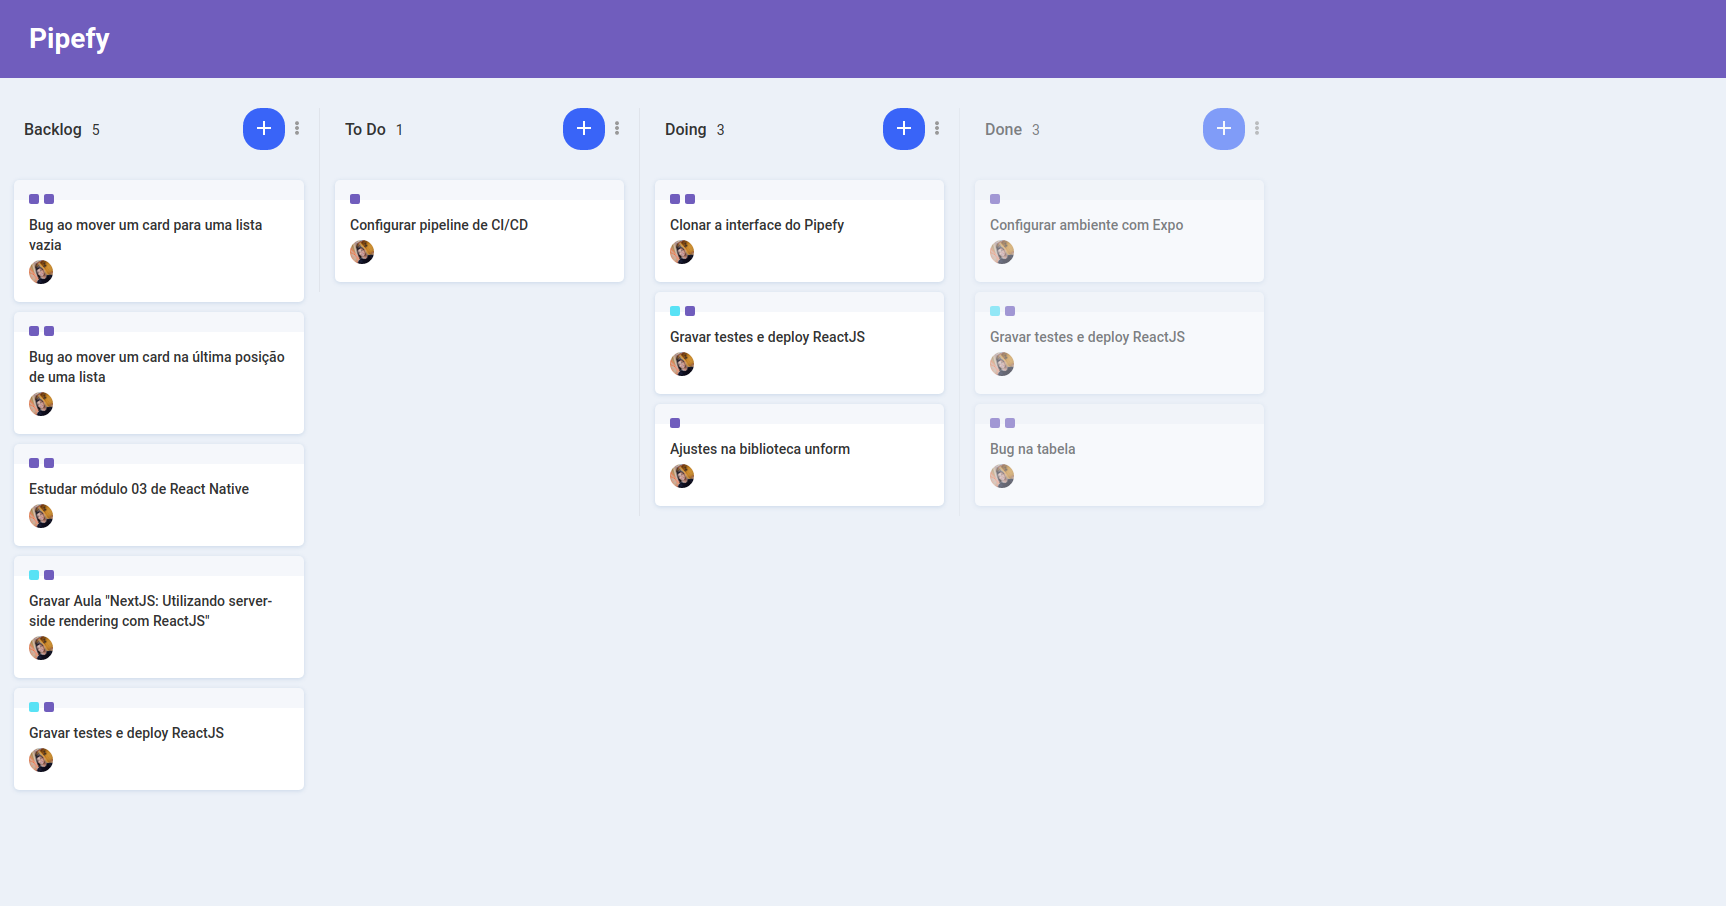
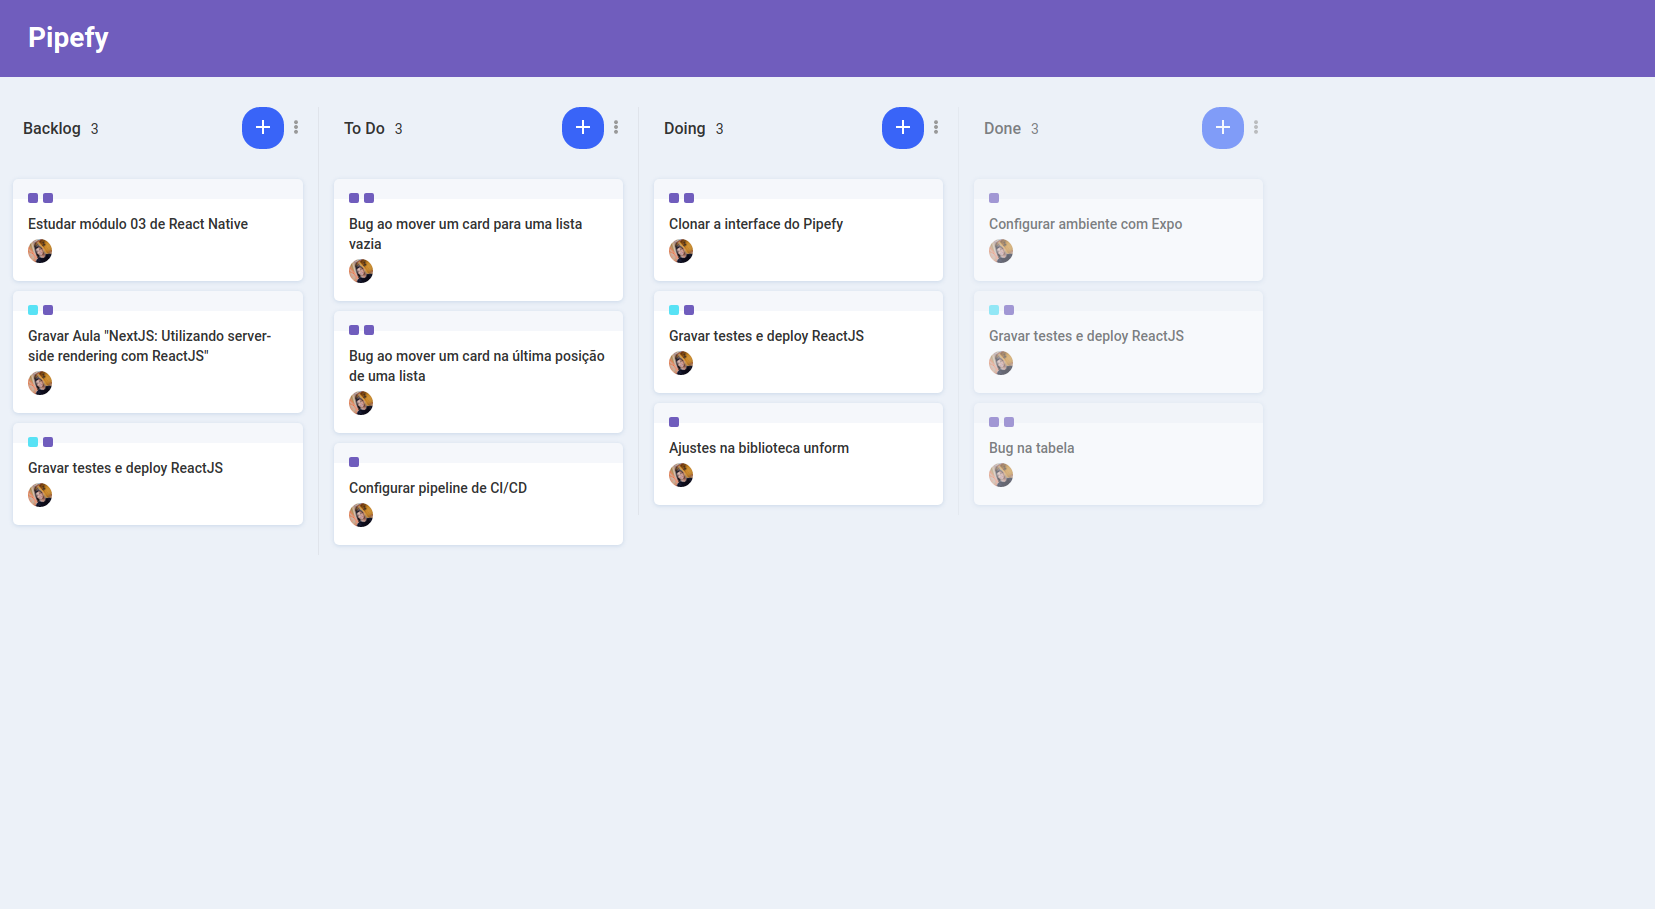
Update README.md

diff --git a/src/data.ts b/src/data.ts
@@ -7,31 +7,19 @@ export function loadLists() {
       cards: [
         {
           id: 1,
-          description: 'Bug ao mover um card para uma lista vazia',
-          labels: ['#7159c1'],
-          userAvatar: 'https://github.com/gabrielsanttana.png',
-        },
-        {
-          id: 2,
-          description: 'Bug ao mover um card na última posição de uma lista',
-          labels: ['#7159c1'],
-          userAvatar: 'https://github.com/gabrielsanttana.png',
-        },
-        {
-          id: 3,
           description: 'Estudar módulo 03 de React Native',
           labels: ['#7159c1'],
           userAvatar: 'https://github.com/gabrielsanttana.png',
         },
         {
-          id: 4,
+          id: 2,
           description:
             'Gravar Aula "NextJS: Utilizando server-side rendering com ReactJS"',
           labels: ['#54e1f7'],
           userAvatar: 'https://github.com/gabrielsanttana.png',
         },
         {
-          id: 5,
+          id: 3,
           description: 'Gravar testes e deploy ReactJS',
           labels: ['#54e1f7'],
           userAvatar: 'https://github.com/gabrielsanttana.png',
@@ -43,6 +31,18 @@ export function loadLists() {
       creatable: false,
       done: false,
       cards: [
+        {
+          id: 1,
+          description: 'Bug ao mover um card para uma lista vazia',
+          labels: ['#7159c1'],
+          userAvatar: 'https://github.com/gabrielsanttana.png',
+        },
+        {
+          id: 2,
+          description: 'Bug ao mover um card na última posição de uma lista',
+          labels: ['#7159c1'],
+          userAvatar: 'https://github.com/gabrielsanttana.png',
+        },
         {
           id: 6,
           description: 'Configurar pipeline de CI/CD',
